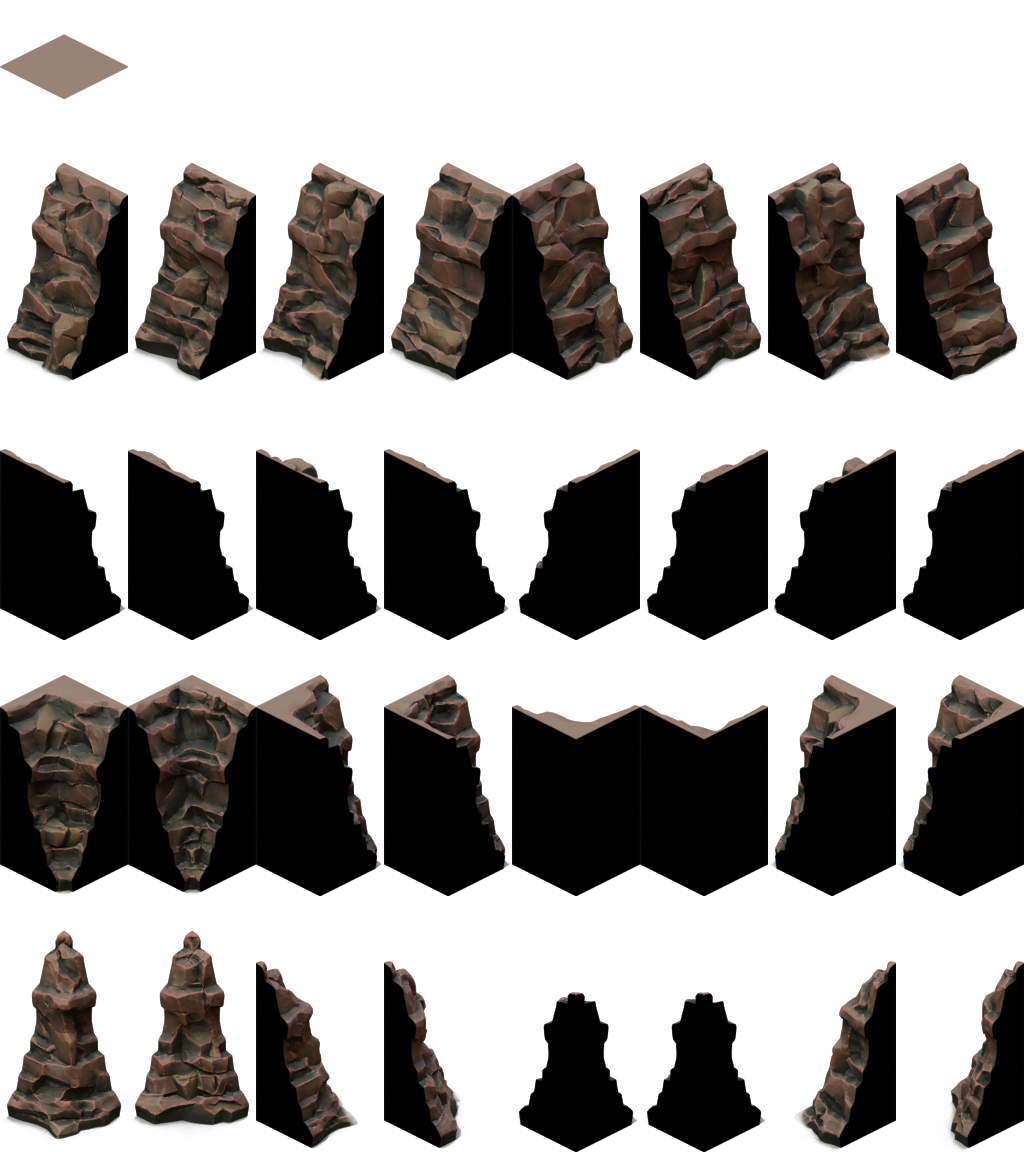
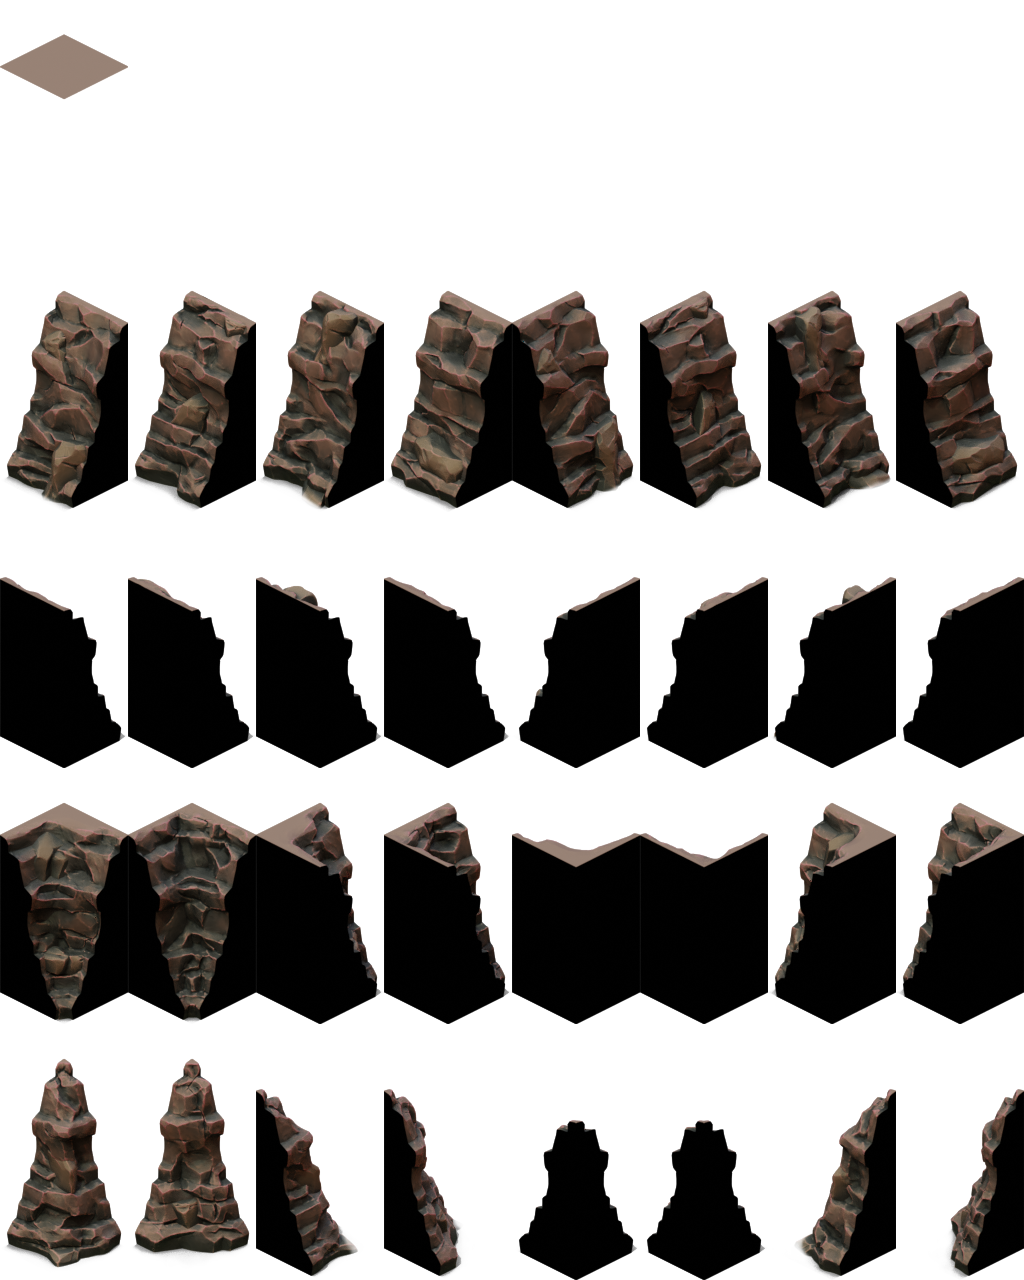
Got cliffs to draw.

diff --git a/test/tilemap_isometric2.html b/test/tilemap_isometric2.html
@@ -1,12 +1,12 @@
 <link rel="stylesheet" href="../styles.css">
 <script type="module">
   const tileMap = [
-    [ 0, 0, 0, 0, 1, 1, 1, 0, 0, 0, 0, 0],
-    [ 0, 0, 0, 0, 0, 0, 0, 1, 1, 1, 0, 0],
+    [ 3, 3, 0, 0, 1, 1, 1, 0, 0, 0, 0, 0],
+    [ 3, 0, 0, 0, 0, 0, 0, 1, 1, 1, 0, 0],
     [ 0, 1, 0, 0, 0, 0, 0, 1, 0, 1, 0, 0],
     [ 0, 0, 0, 1, 1, 0, 0, 1, 1, 1, 0, 0],
-    [ 1, 0, 0, 1, 1, 0, 0, 0, 0, 0, 0, 0],
-    [ 1, 0, 0, 0, 0, 0, 0, 0, 0, 0, 0, 0],
+    [ 1, 0, 0, 1, 1, 3, 3, 0, 0, 0, 0, 0],
+    [ 1, 0, 0, 0, 0, 3, 3, 0, 0, 0, 0, 0],
     [ 1, 0, 1, 0, 1, 0, 0, 1, 1, 1, 0, 0],
     [ 0, 0, 0, 1, 0, 0, 0, 1, 2, 1, 0, 0],
     [ 1, 0, 1, 0, 1, 0, 0, 1, 1, 1, 0, 0],
@@ -30,8 +30,10 @@
   const groundSheet = new Image();
   groundSheet.src = '../images/isometric/grassland_updated/ground.png';
 
+  const wallSheet = new Image();
+  wallSheet.src = '../images/isometric/grassland_updated/walls.png';
 
-  await groundSheet.decode();
+  await Promise.all([groundSheet.decode(), wallSheet.decode()]);
 
   const Tile = {
     Sand: 0, Dirt: 1, Grass: 2, Cliff: 3
@@ -46,18 +48,14 @@
 
   const GroundTemplate = 
   [
-    // NW: 0
     [
-      // NE: 0
       [
-        // SW: 0
         [
           // NW: 0, NE: 0, SW: 0, SE: 0
           [],
           // NW: 0, NE: 0, SW: 0, SE: 1
           [[4, 5], [5, 5]],
         ],
-        // SW: 1
         [
           // NW: 0, NE: 0, SW: 1, SE: 0
           [[0, 5], [1, 5]],
@@ -65,16 +63,13 @@
           Array.from(Array(4), (_,i) => [i, 3]),
         ]
       ],
-      // NE: 1
       [
-        // SW: 0
         [
           // NW: 0, NE: 1, SW: 0, SE: 0
           [[6, 5], [7, 5]],
           // NW: 0, NE: 1, SW: 0, SE: 1
           Array.from(Array(4), (_,i) => [i + 4, 3]),
         ],
-        // SW: 1
         [
           // NW: 0, NE: 1, SW: 1, SE: 0
           [[0, 6], [1, 6]],
@@ -83,18 +78,14 @@
         ]
       ],
     ],
-    // NW: 1
     [
-      // NE: 0
       [
-        // SW: 0
         [
           // NW: 1, NE: 0, SW: 0, SE: 0
           [[2, 5], [3, 5]],
           // NW: 1, NE: 0, SW: 0, SE: 1
           [[2, 6], [3, 6]],
         ],
-        // SW: 1
         [
           // NW: 1, NE: 0, SW: 1, SE: 0
           Array.from(Array(4), (_,i) => [i, 2]),
@@ -103,16 +94,13 @@
 
         ]
       ],
-      // NE: 1
       [
-        // SW: 0
         [
           // NW: 1, NE: 1, SW: 0, SE: 0
           Array.from(Array(4), (_,i) => [i + 4, 2]),
           // NW: 1, NE: 1, SW: 0, SE: 1
           [[0, 4], [1, 4]],
         ],
-        // SW: 1
         [
           // NW: 1, NE: 1, SW: 1, SE: 0
           [[4, 4], [5, 4]],
@@ -123,10 +111,76 @@
     ],
   ];
 
+  const WallTemplate = 
+  [
+    [
+      [
+        [
+          // NW: 0, NE: 0, SW: 0, SE: 0
+          [],
+          // NW: 0, NE: 0, SW: 0, SE: 1
+          [[6, 16], [7, 16]],
+        ],
+        [
+          // NW: 0, NE: 0, SW: 1, SE: 0
+          [[4, 16], [5, 16]],
+          // NW: 0, NE: 0, SW: 1, SE: 1
+          Array.from(Array(4), (_,i) => [i + 4, 8]),
+        ]
+      ],
+      [
+        [
+          // NW: 0, NE: 1, SW: 0, SE: 0
+          [[0, 16], [1, 16]],
+          // NW: 0, NE: 1, SW: 0, SE: 1
+          Array.from(Array(4), (_,i) => [i, 4]),
+        ],
+        [
+          // NW: 0, NE: 1, SW: 1, SE: 0
+          [],
+          // NW: 0, NE: 1, SW: 1, SE: 1
+          [[6, 12], [7, 12]],
+        ]
+      ],
+    ],
+    [
+      [
+        [
+          // NW: 1, NE: 0, SW: 0, SE: 0
+          [[2, 16], [3, 16]],
+          // NW: 1, NE: 0, SW: 0, SE: 1
+          [],
+        ],
+        [
+          // NW: 1, NE: 0, SW: 1, SE: 0
+          Array.from(Array(4), (_,i) => [i, 8]),
+          // NW: 1, NE: 0, SW: 1, SE: 1
+          [[4, 12], [5, 12]],
+
+        ]
+      ],
+      [
+        [
+          // NW: 1, NE: 1, SW: 0, SE: 0
+          Array.from(Array(4), (_,i) => [i + 4, 4]),
+          // NW: 1, NE: 1, SW: 0, SE: 1
+          [[0, 12], [1, 12]],
+        ],
+        [
+          // NW: 1, NE: 1, SW: 1, SE: 0
+          [[2, 12], [3, 12]],
+          // NW: 1, NE: 1, SW: 1, SE: 1
+          [[0, 0]],
+        ]
+      ],
+    ],
+  ];
+
   const TileInfo = {
     [Tile.Grass]: fromTemplate(groundSheet, GroundTemplate, 0,  0),
     [Tile.Dirt]:  fromTemplate(groundSheet, GroundTemplate, 0,  7),
     [Tile.Sand]:  fromTemplate(groundSheet, GroundTemplate, 0, 14),
+    [Tile.Cliff]: fromTemplate(wallSheet,   WallTemplate,   0,  0),
   }
 
   function fromTemplate(sheet, template, xOffset, yOffset) {
@@ -186,9 +240,9 @@
         const [sx, sy] = tiles[randIndex];
         
         const w = TILE_WIDTH;
-        const h = TILE_HEIGHT; // * (maxHeight - minHeight + 1);
+        const h = TILE_HEIGHT * (TileHeight[layer] + 1);
         
-        const yOffset = 0; //maxHeight * -TILE_HEIGHT;
+        const yOffset = -TILE_HEIGHT * TileHeight[layer];
           
         ctx.drawImage(tileInfo.sheet, sx, sy, w, h, x, y + yOffset, w, h);
       });
